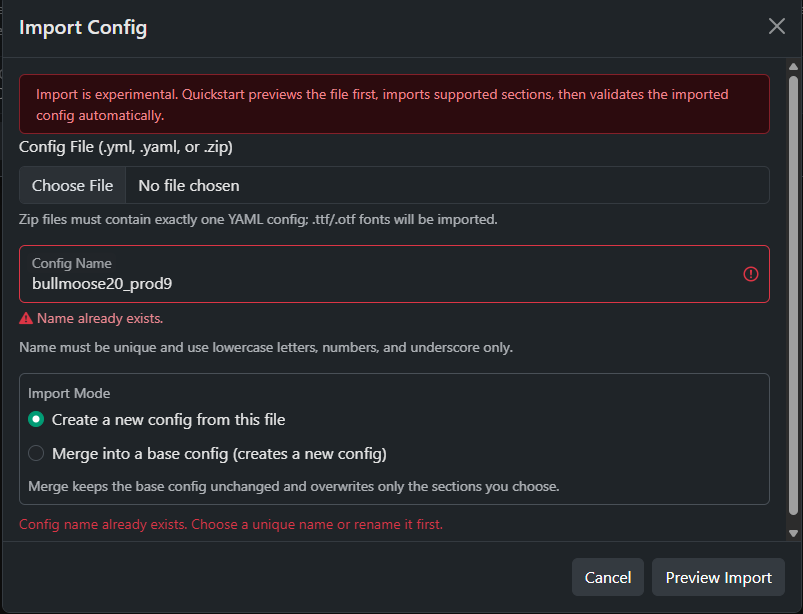
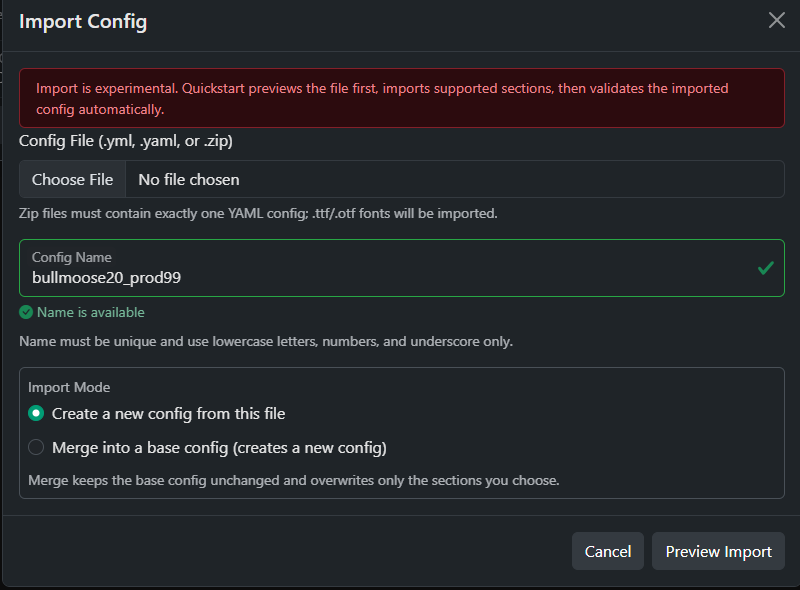
small tweaks all around

diff --git a/static/local-js/001-start.js b/static/local-js/001-start.js
@@ -1328,13 +1328,17 @@ document.addEventListener('DOMContentLoaded', function () {
       confirmImportButton.disabled = true
       confirmImportButton.textContent = 'Importing...'
 
-      function showImportRedirectOverlay (message, detail) {
+      function showImportRedirectOverlay (message, detail, options = {}) {
         const existing = document.getElementById('qs-import-redirect')
         if (existing) {
           const msgEl = existing.querySelector('.qs-import-redirect-message')
           const detailEl = existing.querySelector('.qs-import-redirect-detail')
+          const spinner = existing.querySelector('.qs-import-redirect-spinner')
+          const actionsEl = existing.querySelector('.qs-import-redirect-actions')
           if (msgEl) msgEl.textContent = message || msgEl.textContent
           if (detailEl) detailEl.textContent = detail || detailEl.textContent
+          if (spinner) spinner.classList.toggle('d-none', Boolean(options.done))
+          renderImportRedirectActions(actionsEl, options.actions || [])
           return
         }
 
@@ -1358,9 +1362,10 @@ document.addEventListener('DOMContentLoaded', function () {
         card.style.cssText = 'background:#0f1113;border:1px solid #2b2f33;max-width:520px;width:100%;'
 
         const spinner = document.createElement('div')
-        spinner.className = 'spinner-border text-info mb-3'
+        spinner.className = 'spinner-border text-info mb-3 qs-import-redirect-spinner'
         spinner.setAttribute('role', 'status')
         spinner.setAttribute('aria-hidden', 'true')
+        spinner.classList.toggle('d-none', Boolean(options.done))
 
         const messageEl = document.createElement('div')
         messageEl.className = 'fw-semibold mb-1 qs-import-redirect-message'
@@ -1376,7 +1381,11 @@ document.addEventListener('DOMContentLoaded', function () {
         button.className = 'btn btn-sm btn-outline-info qs-import-redirect-btn d-none'
         button.textContent = 'Open Start'
 
-        card.append(spinner, messageEl, detailEl, button)
+        const actionsEl = document.createElement('div')
+        actionsEl.className = 'qs-import-redirect-actions d-flex flex-wrap justify-content-center gap-2 mb-3'
+        renderImportRedirectActions(actionsEl, options.actions || [])
+
+        card.append(spinner, messageEl, detailEl, actionsEl, button)
         overlay.appendChild(card)
 
         document.body.appendChild(overlay)
@@ -1393,6 +1402,24 @@ document.addEventListener('DOMContentLoaded', function () {
         }
       }
 
+      function renderImportRedirectActions (container, actions) {
+        if (!container) return
+        container.replaceChildren()
+        if (!Array.isArray(actions) || !actions.length) {
+          container.classList.add('d-none')
+          return
+        }
+        container.classList.remove('d-none')
+        actions.forEach(action => {
+          if (!action || !action.href || !action.label) return
+          const link = document.createElement('a')
+          link.className = action.className || 'btn btn-sm btn-outline-warning'
+          link.href = action.href
+          link.textContent = action.label
+          container.appendChild(link)
+        })
+      }
+
       function summarizeBulkValidation (data) {
         const summary = data && data.summary ? data.summary : {}
         const counts = window.QSBulkValidation && typeof window.QSBulkValidation.getSummaryCounts === 'function'
@@ -1403,6 +1430,56 @@ document.addEventListener('DOMContentLoaded', function () {
               skipped: Number(summary.skipped || 0)
             }
         return `Validation complete. ${counts.validated} passed, ${counts.failed} failed, ${counts.skipped} skipped.`
+      }
+
+      function summarizeImportResult (data) {
+        const sections = Array.isArray(data.imported_sections) ? data.imported_sections.length : 0
+        const skippedSections = Array.isArray(data.skipped_sections) ? data.skipped_sections.length : 0
+        const copiedFonts = Array.isArray(data.fonts_copied) ? data.fonts_copied.length : 0
+        const skippedFonts = Array.isArray(data.fonts_skipped) ? data.fonts_skipped.length : 0
+        const mapping = data.mapping_summary && typeof data.mapping_summary === 'object' ? data.mapping_summary : {}
+        const mapped = Number(mapping.mapped || 0)
+        const ignored = Number(mapping.ignored || 0)
+        const parts = [`${sections} section${sections === 1 ? '' : 's'} imported`]
+        if (skippedSections) parts.push(`${skippedSections} skipped`)
+        if (mapped || ignored) parts.push(`${mapped} mapped, ${ignored} ignored`)
+        if (copiedFonts || skippedFonts) parts.push(`${copiedFonts} font${copiedFonts === 1 ? '' : 's'} copied, ${skippedFonts} skipped`)
+        return parts.join(' • ')
+      }
+
+      function stepLabelForValidationKey (stepKey) {
+        const labels = {
+          '010-plex': 'Plex',
+          '020-tmdb': 'TMDb',
+          '025-libraries': 'Libraries',
+          '030-tautulli': 'Tautulli',
+          '040-github': 'GitHub',
+          '050-omdb': 'OMDb',
+          '060-mdblist': 'MDBList',
+          '070-notifiarr': 'Notifiarr',
+          '080-gotify': 'Gotify',
+          '085-ntfy': 'ntfy',
+          '090-webhooks': 'Webhooks',
+          '100-anidb': 'AniDB',
+          '110-radarr': 'Radarr',
+          '120-sonarr': 'Sonarr',
+          '130-trakt': 'Trakt',
+          '140-mal': 'MyAnimeList',
+          '150-settings': 'Settings'
+        }
+        return labels[stepKey] || String(stepKey || '').replace(/^\d+-/, '')
+      }
+
+      function validationFailureActions (data) {
+        const results = data && data.results && typeof data.results === 'object' ? data.results : {}
+        return Object.keys(results)
+          .filter(stepKey => results[stepKey] && results[stepKey].status === 'failed')
+          .slice(0, 4)
+          .map(stepKey => ({
+            href: `/step/${encodeURIComponent(stepKey)}`,
+            label: stepLabelForValidationKey(stepKey),
+            className: 'btn btn-sm btn-outline-warning'
+          }))
       }
 
       async function runImportBulkValidation () {
@@ -1439,31 +1516,38 @@ document.addEventListener('DOMContentLoaded', function () {
         if (!res.ok || !data.success) {
           throw new Error(data.message || 'Import failed.')
         }
-        let msg = `Imported config '${data.config_name}'.`
-        if (Array.isArray(data.fonts_copied) && data.fonts_copied.length) {
-          msg += ` Fonts added: ${data.fonts_copied.length}.`
-        }
-        const skippedExisting = Array.isArray(data.fonts_skipped_existing) ? data.fonts_skipped_existing : []
-        const skippedFailed = Array.isArray(data.fonts_skipped_failed) ? data.fonts_skipped_failed : []
-        if (skippedExisting.length) {
-          msg += ` Fonts skipped (already exists): ${skippedExisting.length}.`
-        }
-        if (skippedFailed.length) {
-          msg += ` Fonts skipped (copy failed): ${skippedFailed.length}.`
-        }
-        if (!skippedExisting.length && !skippedFailed.length && Array.isArray(data.fonts_skipped) && data.fonts_skipped.length) {
-          msg += ` Fonts skipped: ${data.fonts_skipped.length}.`
-        }
+        const msg = `Imported config '${data.config_name}'.`
+        const importSummaryText = summarizeImportResult(data)
         const modal = bootstrap.Modal.getInstance(importConfigModalEl)
         if (modal) modal.hide()
-        showImportRedirectOverlay(msg, 'Validating imported config...')
+        showImportRedirectOverlay(msg, `${importSummaryText}\nValidating imported config...`)
         try {
           const validationData = await runImportBulkValidation()
-          showImportRedirectOverlay('Import complete.', `${summarizeBulkValidation(validationData)} Reloading Start...`)
-          setTimeout(() => { window.location = '/step/001-start' }, 900)
+          const actions = validationFailureActions(validationData)
+          if (actions.length) {
+            actions.push({ href: '/step/001-start', label: 'Open Start', className: 'btn btn-sm btn-outline-info' })
+            showImportRedirectOverlay(
+              'Import complete.',
+              `${importSummaryText}\n${summarizeBulkValidation(validationData)} Review failed pages below.`,
+              { done: true, actions }
+            )
+          } else {
+            showImportRedirectOverlay(
+              'Import complete.',
+              `${importSummaryText}\n${summarizeBulkValidation(validationData)} Reloading Start...`,
+              { done: true }
+            )
+            setTimeout(() => { window.location = '/step/001-start' }, 900)
+          }
         } catch (validationErr) {
-          showImportRedirectOverlay('Import complete.', `${validationErr.message || 'Validation failed.'} Reloading Start...`)
-          setTimeout(() => { window.location = '/step/001-start' }, 1600)
+          showImportRedirectOverlay(
+            'Import complete.',
+            `${importSummaryText}\n${validationErr.message || 'Validation failed.'}`,
+            {
+              done: true,
+              actions: [{ href: '/step/001-start', label: 'Open Start', className: 'btn btn-sm btn-outline-info' }]
+            }
+          )
         }
       } catch (err) {
         const message = err.message || 'Import failed.'

diff --git a/templates/900-final.html b/templates/900-final.html
@@ -352,7 +352,7 @@
 <div id="run-controls-container" class="d-none">
   <hr>
   <h5 class="mt-3">
-    Build Your Kometa Run Command
+    Prepare and Run Kometa
     <a href="https://kometa.wiki/en/nightly/kometa/environmental/" target="_blank" class="text-decoration-none ms-2">
       <i class="bi bi-box-arrow-up-right text-info" data-bs-toggle="tooltip"
         aria-label="Open Kometa CLI flag documentation"
@@ -366,7 +366,7 @@
       <h2 class="accordion-header" id="kometa-actions-heading">
         <button id="kometa-actions-toggle" class="accordion-button collapsed" type="button" data-bs-toggle="collapse"
           data-bs-target="#kometa-actions-collapse" aria-expanded="false" aria-controls="kometa-actions-collapse">
-          Kometa Install / Update
+          Prepare Kometa Install / Update
           <span id="kometa-update-rollup-badge" class="badge ms-2 qs-validation-rollup-badge qs-validation-rollup-badge--unknown">
             Not checked
           </span>
@@ -377,6 +377,9 @@
         <div class="accordion-body">
           <div id="kometa-actions">
             <div class="alert alert-secondary mb-0">
+              <div class="small text-muted mb-2">
+                Validate the local Kometa folder and apply updates before starting a run.
+              </div>
               <div class="mb-2">
                 Kometa will be installed/updated in:
                 <code id="kometa-install-path">{{ kometa_default_display }}</code>

diff --git a/static/local-js/900-final.js b/static/local-js/900-final.js
@@ -1043,6 +1043,19 @@ $(document).ready(function () {
     kometaActionsCollapse.addEventListener('hidden.bs.collapse', syncKometaUpdateAttention)
   }
 
+  function setKometaPrepareRunningState (isRunning) {
+    const accordion = document.getElementById('kometa-actions-accordion')
+    if (accordion) accordion.classList.toggle('opacity-50', Boolean(isRunning))
+    if (!kometaActionsCollapse || !kometaActionsToggle) return
+    if (isRunning && kometaActionsCollapse.classList.contains('show') && typeof bootstrap !== 'undefined' && bootstrap.Collapse) {
+      bootstrap.Collapse.getOrCreateInstance(kometaActionsCollapse, { toggle: false }).hide()
+    }
+    if (isRunning) {
+      kometaActionsToggle.classList.add('collapsed')
+      kometaActionsToggle.setAttribute('aria-expanded', 'false')
+    }
+  }
+
   function showCopyButtonSuccess (iconSelector, textSelector) {
     const $icon = $(iconSelector)
     const $text = $(textSelector)
@@ -2570,6 +2583,7 @@ $(document).ready(function () {
         const $forceUpdate = $forceUpdateToggle
         const $runNow = $('#run-now')
         const $stopNow = $('#stop-now')
+        setKometaPrepareRunningState(data.status === 'running')
 
         // Disable update if Kometa is running or an update is in progress
         const shouldDisableUpdate = (data.status === 'running') || KOMETA_UPDATING

diff --git a/templates/001-start.html b/templates/001-start.html
@@ -358,7 +358,10 @@
 
         <div id="importPreviewSection" class="d-none mt-3">
           <div class="d-flex align-items-center justify-content-between flex-wrap gap-2">
-            <h6 class="mb-0">Import Report (Preview)</h6>
+            <div class="d-flex align-items-center gap-2">
+              <h6 class="mb-0">Import Report (Preview)</h6>
+              <span class="badge text-bg-info">Dry run - not saved</span>
+            </div>
             <div class="d-flex align-items-center gap-2">
               <span class="small text-muted" id="importSummary"></span>
               <a class="btn btn-sm btn-outline-light d-none" id="downloadImportReport" href="#" download>Download report</a>

diff --git a/quickstart.py b/quickstart.py
@@ -4282,11 +4282,22 @@ def import_config_confirm():
     session.pop("import_preview_plex_token", None)
     session.pop("import_preview_tmdb_apikey", None)
     session["config_name"] = config_name
+    importable_sections = sorted(str(section) for section in (cached.get("importable_sections") or payload.keys()))
+    skipped_sections = sorted(section for section in importable_sections if section not in set(imported_sections))
+    report_summary = report.summary() if "report" in locals() else (cached.get("report_summary") or {})
+    mapping_values = [str(value).strip() for value in library_mapping.values()] if isinstance(library_mapping, dict) else []
+    mapping_summary = {
+        "mapped": sum(1 for value in mapping_values if value and value != "__ignore__"),
+        "ignored": sum(1 for value in mapping_values if value == "__ignore__"),
+    }
 
     return jsonify(
         success=True,
         config_name=config_name,
         imported_sections=imported_sections,
+        skipped_sections=skipped_sections,
+        report_summary=report_summary,
+        mapping_summary=mapping_summary,
         fonts_copied=fonts_copied,
         fonts_skipped=fonts_skipped,
         fonts_skipped_existing=fonts_skipped_existing,

diff --git a/README.md b/README.md
@@ -99,6 +99,10 @@ This reduces the chance of Plex background maintenance colliding with long Komet
 - **Library mapping:** Imported library names must be mapped to Plex libraries (or ignored) before confirming the import; you can re‑preview after mapping.
 - **After import:** Quickstart stays on the Welcome page, runs bulk validation automatically, then refreshes the workspace status for the imported config.
 
+#### What happens after import?
+
+After you confirm an import, Quickstart saves the new config, shows a compact summary of imported sections, skipped sections, mapped libraries, and copied fonts, then runs bulk validation automatically. If validation fails for any page, Quickstart keeps the summary open with direct links to the failed pages. If validation passes, it refreshes the Welcome page with the imported config selected.
+
 ![Import Config](static/images/readme/import-config.png)
 
 ### Quickstart Scope
@@ -385,10 +389,19 @@ Quickstart runs on port 7171 by default. You can change it in one of three ways:
 
 Quickstart uses pytest for unit/integration tests and Playwright for E2E tests.
 
-Install runtime and dev test dependencies before running tests, and rerun this when either requirements file changes:
+### Developer Testing
+
+Set up or refresh the local test environment, including runtime requirements, developer requirements, and Playwright browsers:
 
 ```
-python -m pip install -r requirements.txt -r requirements-dev.txt
+.\scripts\setup-dev.ps1
+```
+
+You can also run setup through the test runner:
+
+```
+.\scripts\run-tests.ps1 -Setup
+.\scripts\run-tests.ps1 -Setup -All
 ```
 
 Run tests (PowerShell):
@@ -397,6 +410,15 @@ Run tests (PowerShell):
 .\scripts\run-tests.ps1          # Unit/integration (non-E2E)
 .\scripts\run-tests.ps1 -E2E     # End-to-end tests (Playwright)
 .\scripts\run-tests.ps1 -All     # Everything
+```
+
+Fast focused paths:
+
+```
+.\venv\Scripts\python.exe -m pytest tests\test_importer_edge_cases.py
+.\venv\Scripts\python.exe -m pytest tests\test_workspace_dependency_logic.py
+.\venv\Scripts\python.exe -m pytest tests\test_core_backend.py -k final
+.\scripts\run-tests.ps1 -E2E
 ```
 
 If you prefer raw commands:
